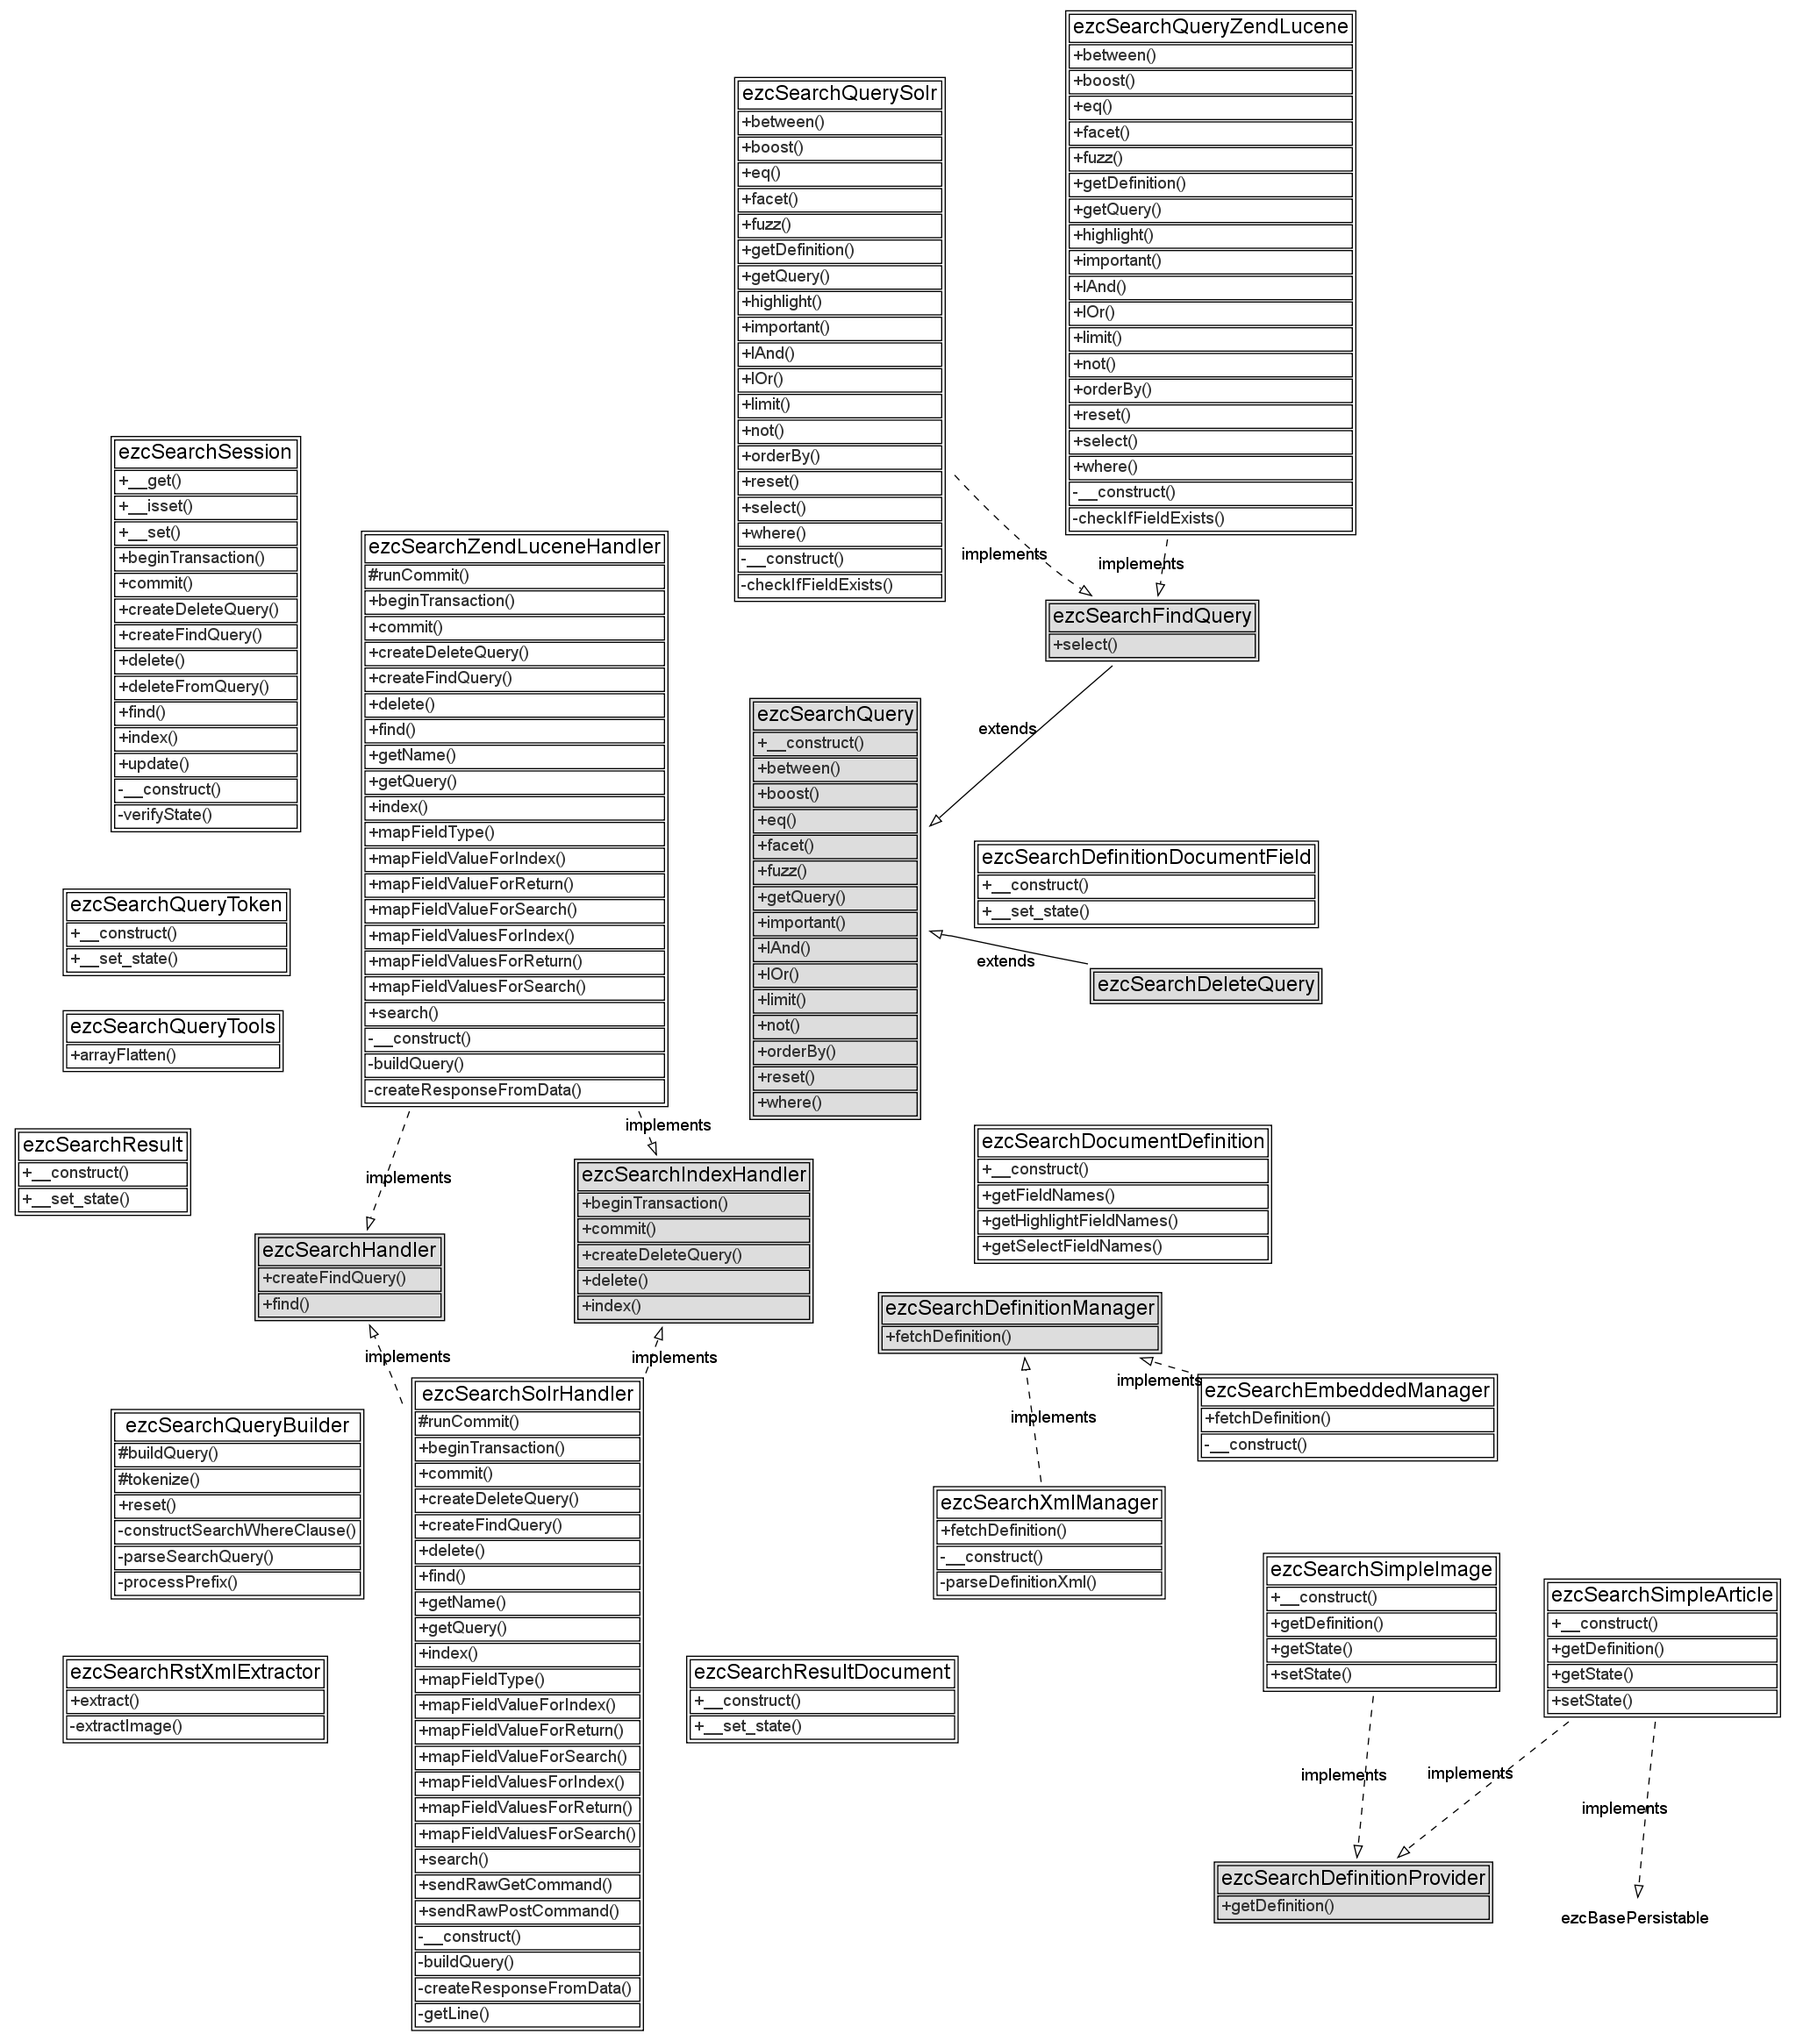
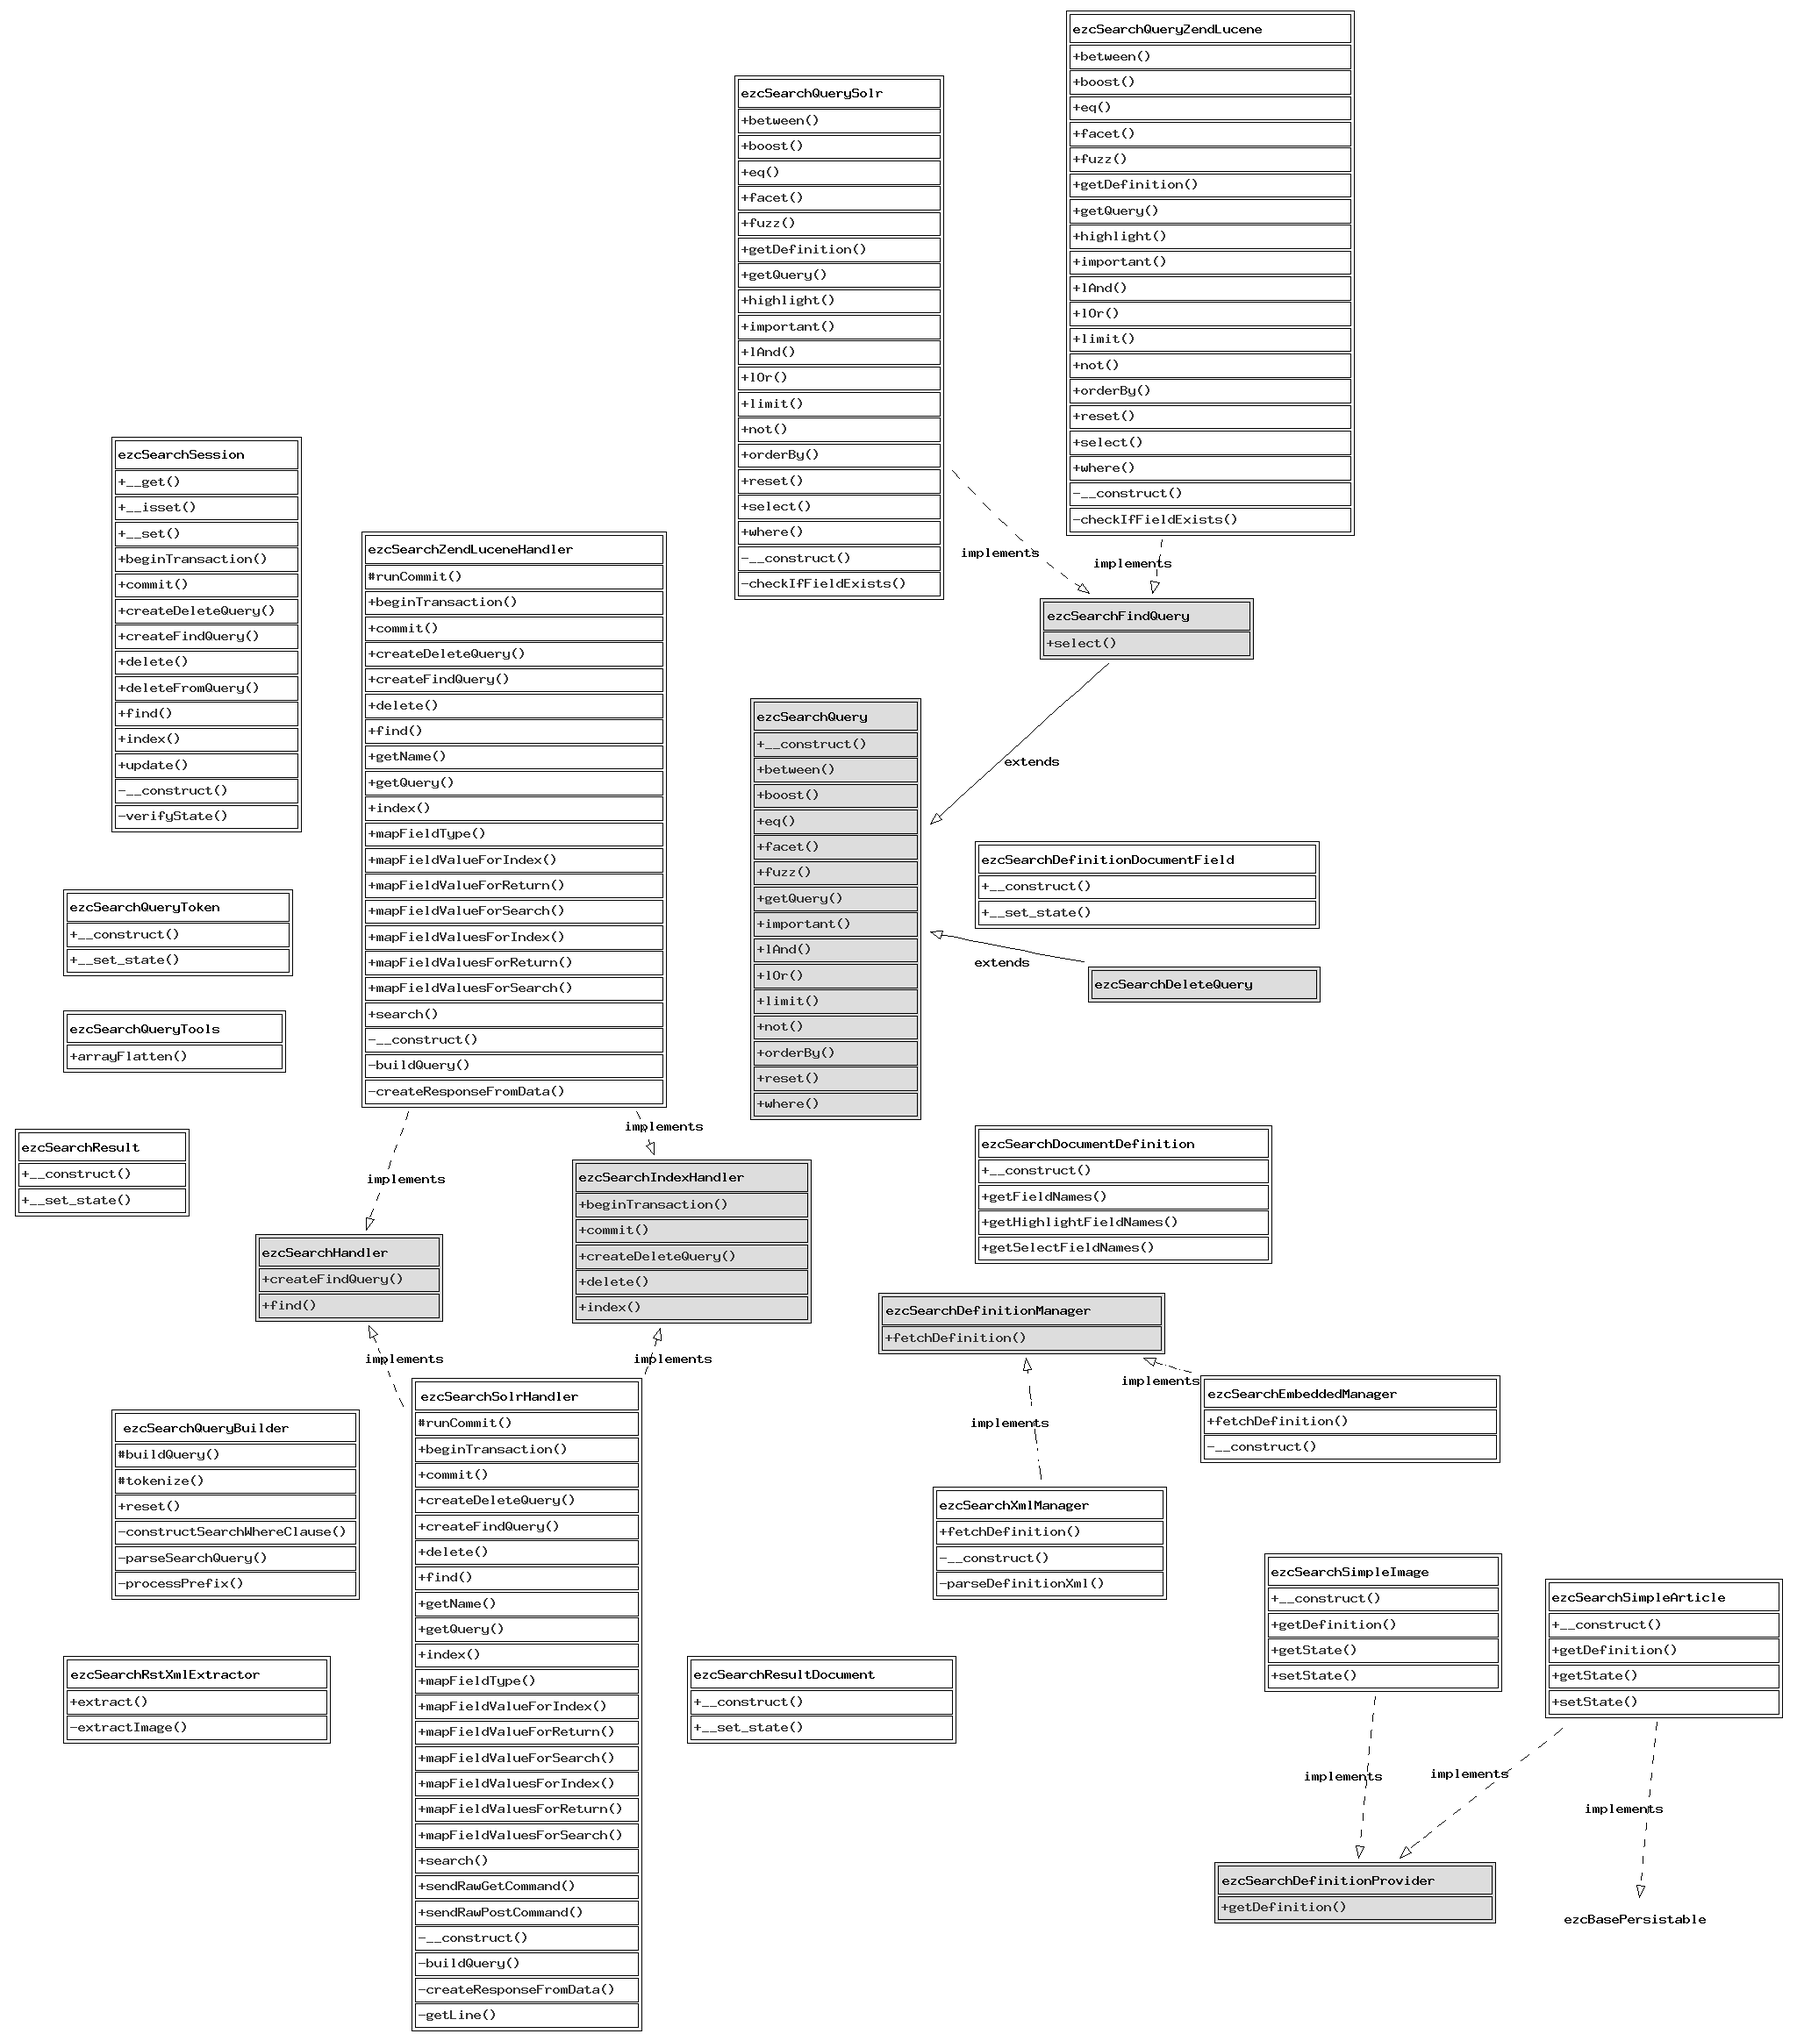
Added decorators sync and syncdb

diff --git a/src/search_autoload.php b/src/search_autoload.php
@@ -34,6 +34,7 @@ return array(
     'ezcSearchQuerySolr'                         => 'Search/abstraction/implementations/solr.php',
     'ezcSearchQueryToken'                        => 'Search/structs/query_token.php',
     'ezcSearchQueryTools'                        => 'Search/abstraction/query_tools.php',
+    'ezcSearchQueryZendLucene'                   => 'Search/abstraction/implementations/zend_lucene.php',
     'ezcSearchResult'                            => 'Search/structs/search_result.php',
     'ezcSearchResultDocument'                    => 'Search/structs/search_result_document.php',
     'ezcSearchRstXmlExtractor'                   => 'Search/extractors/rstxml.php',
@@ -42,5 +43,6 @@ return array(
     'ezcSearchSimpleImage'                       => 'Search/extractors/helpers/image.php',
     'ezcSearchSolrHandler'                       => 'Search/handlers/solr.php',
     'ezcSearchXmlManager'                        => 'Search/managers/xml_manager.php',
+    'ezcSearchZendLuceneHandler'                 => 'Search/handlers/zend_lucene.php',
 );
 ?>
